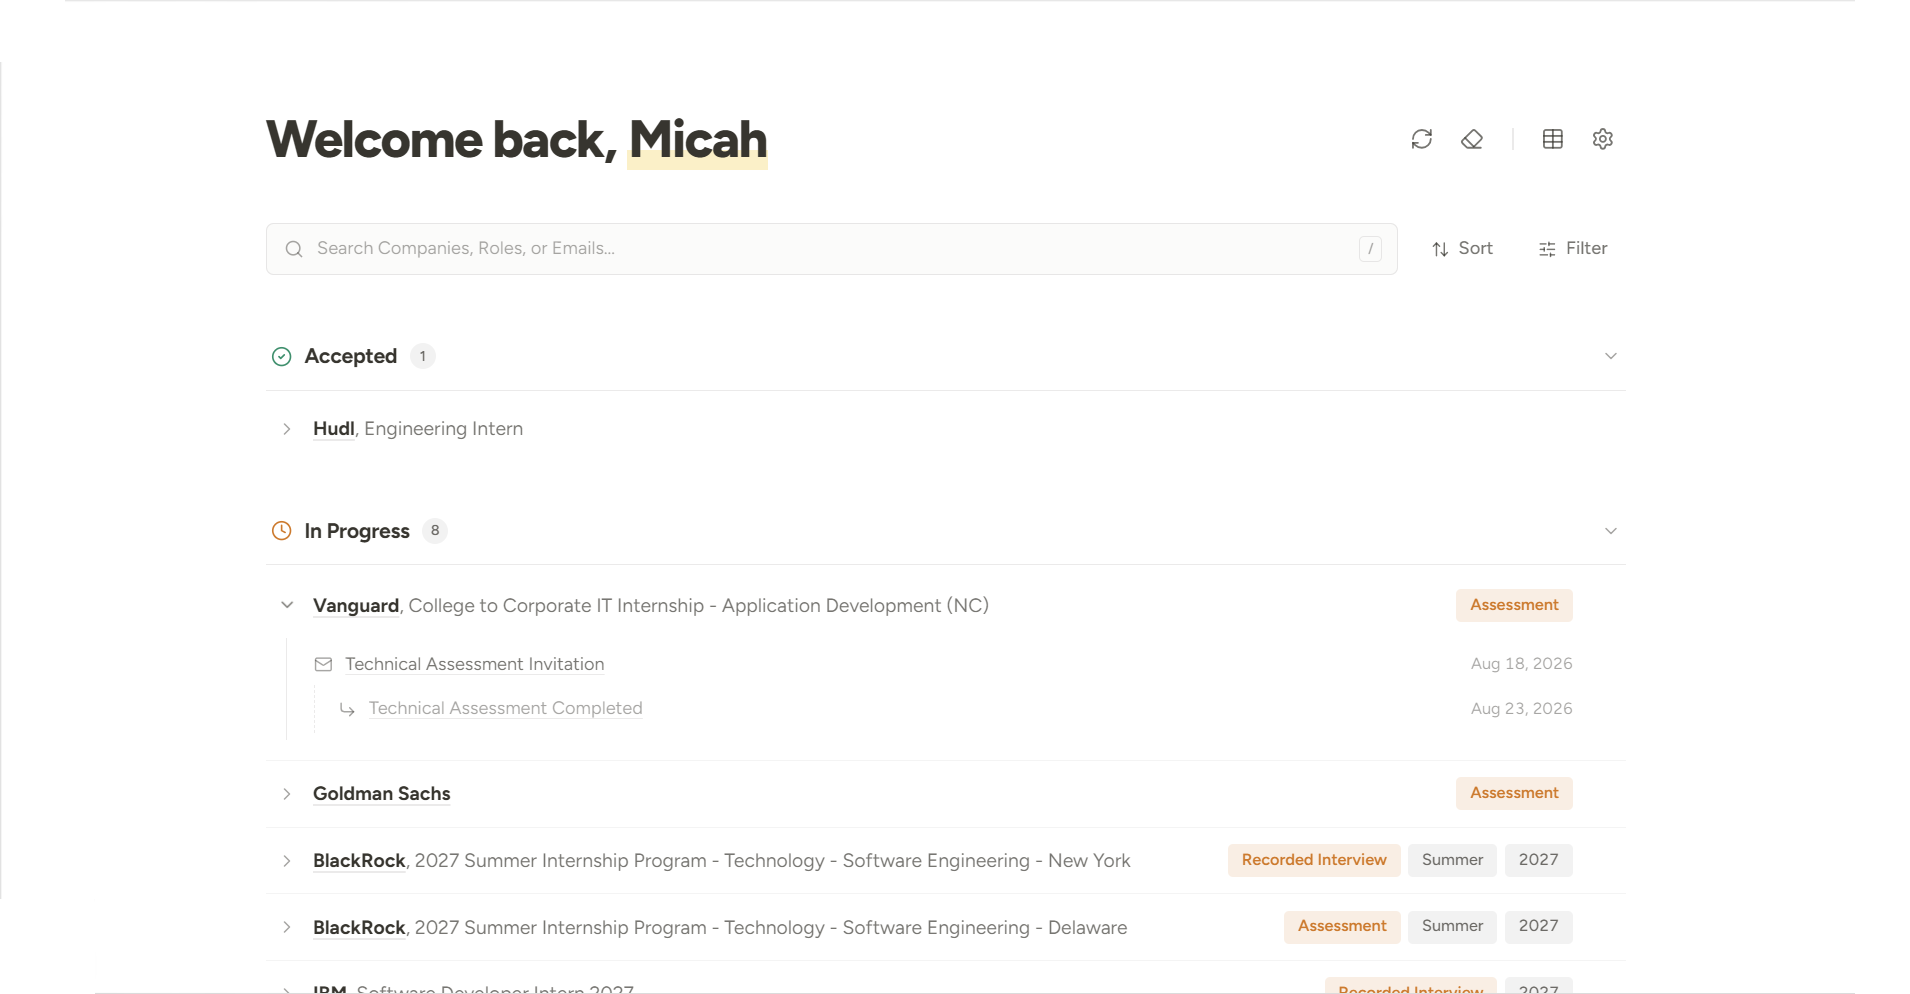
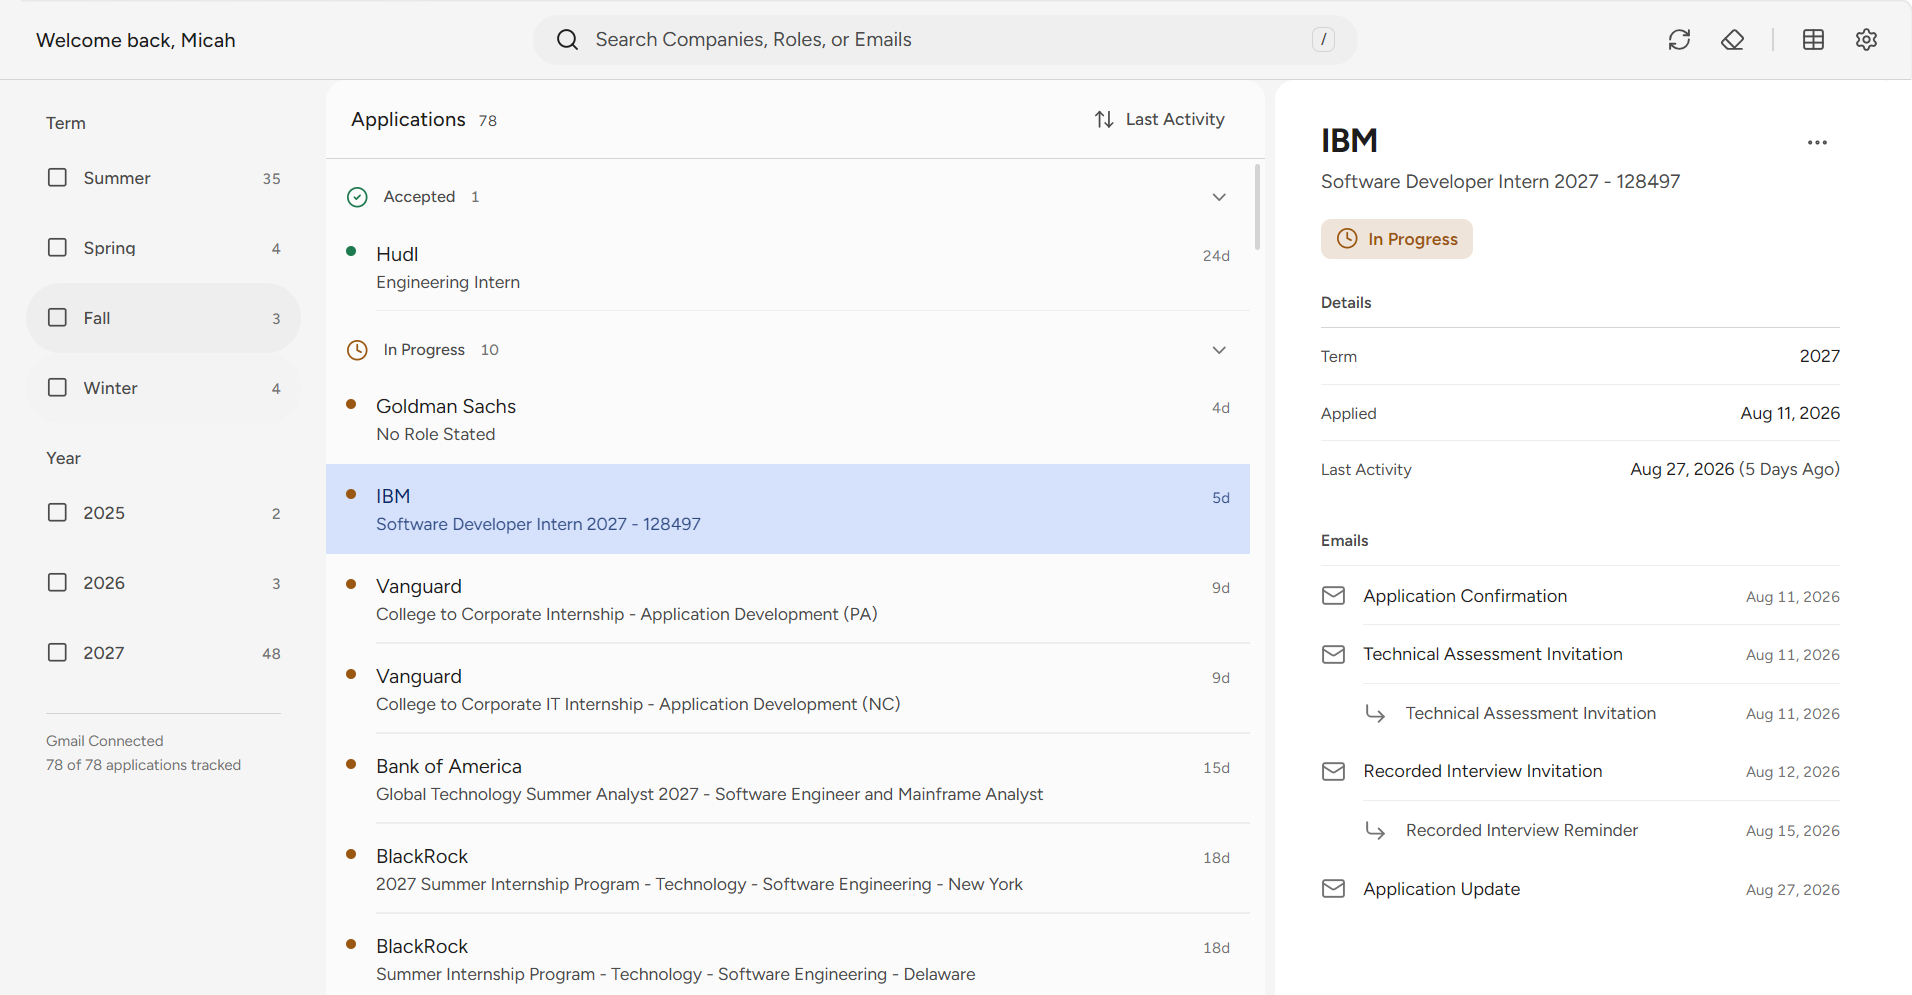
docs: update the board screenshot

diff --git a/README.md b/README.md
@@ -5,7 +5,7 @@
 </p>
 
 <p align="center">
-  <img src="docs/board.png" alt="The board, with applications grouped by status" width="900">
+  <img src="docs/board.png" alt="The split view, with the applications grouped by status on the left and one of them read out on the right" width="900">
 </p>
 
 It runs on your machine at <http://127.0.0.1:3939>. Nothing leaves it but the Gmail API and
